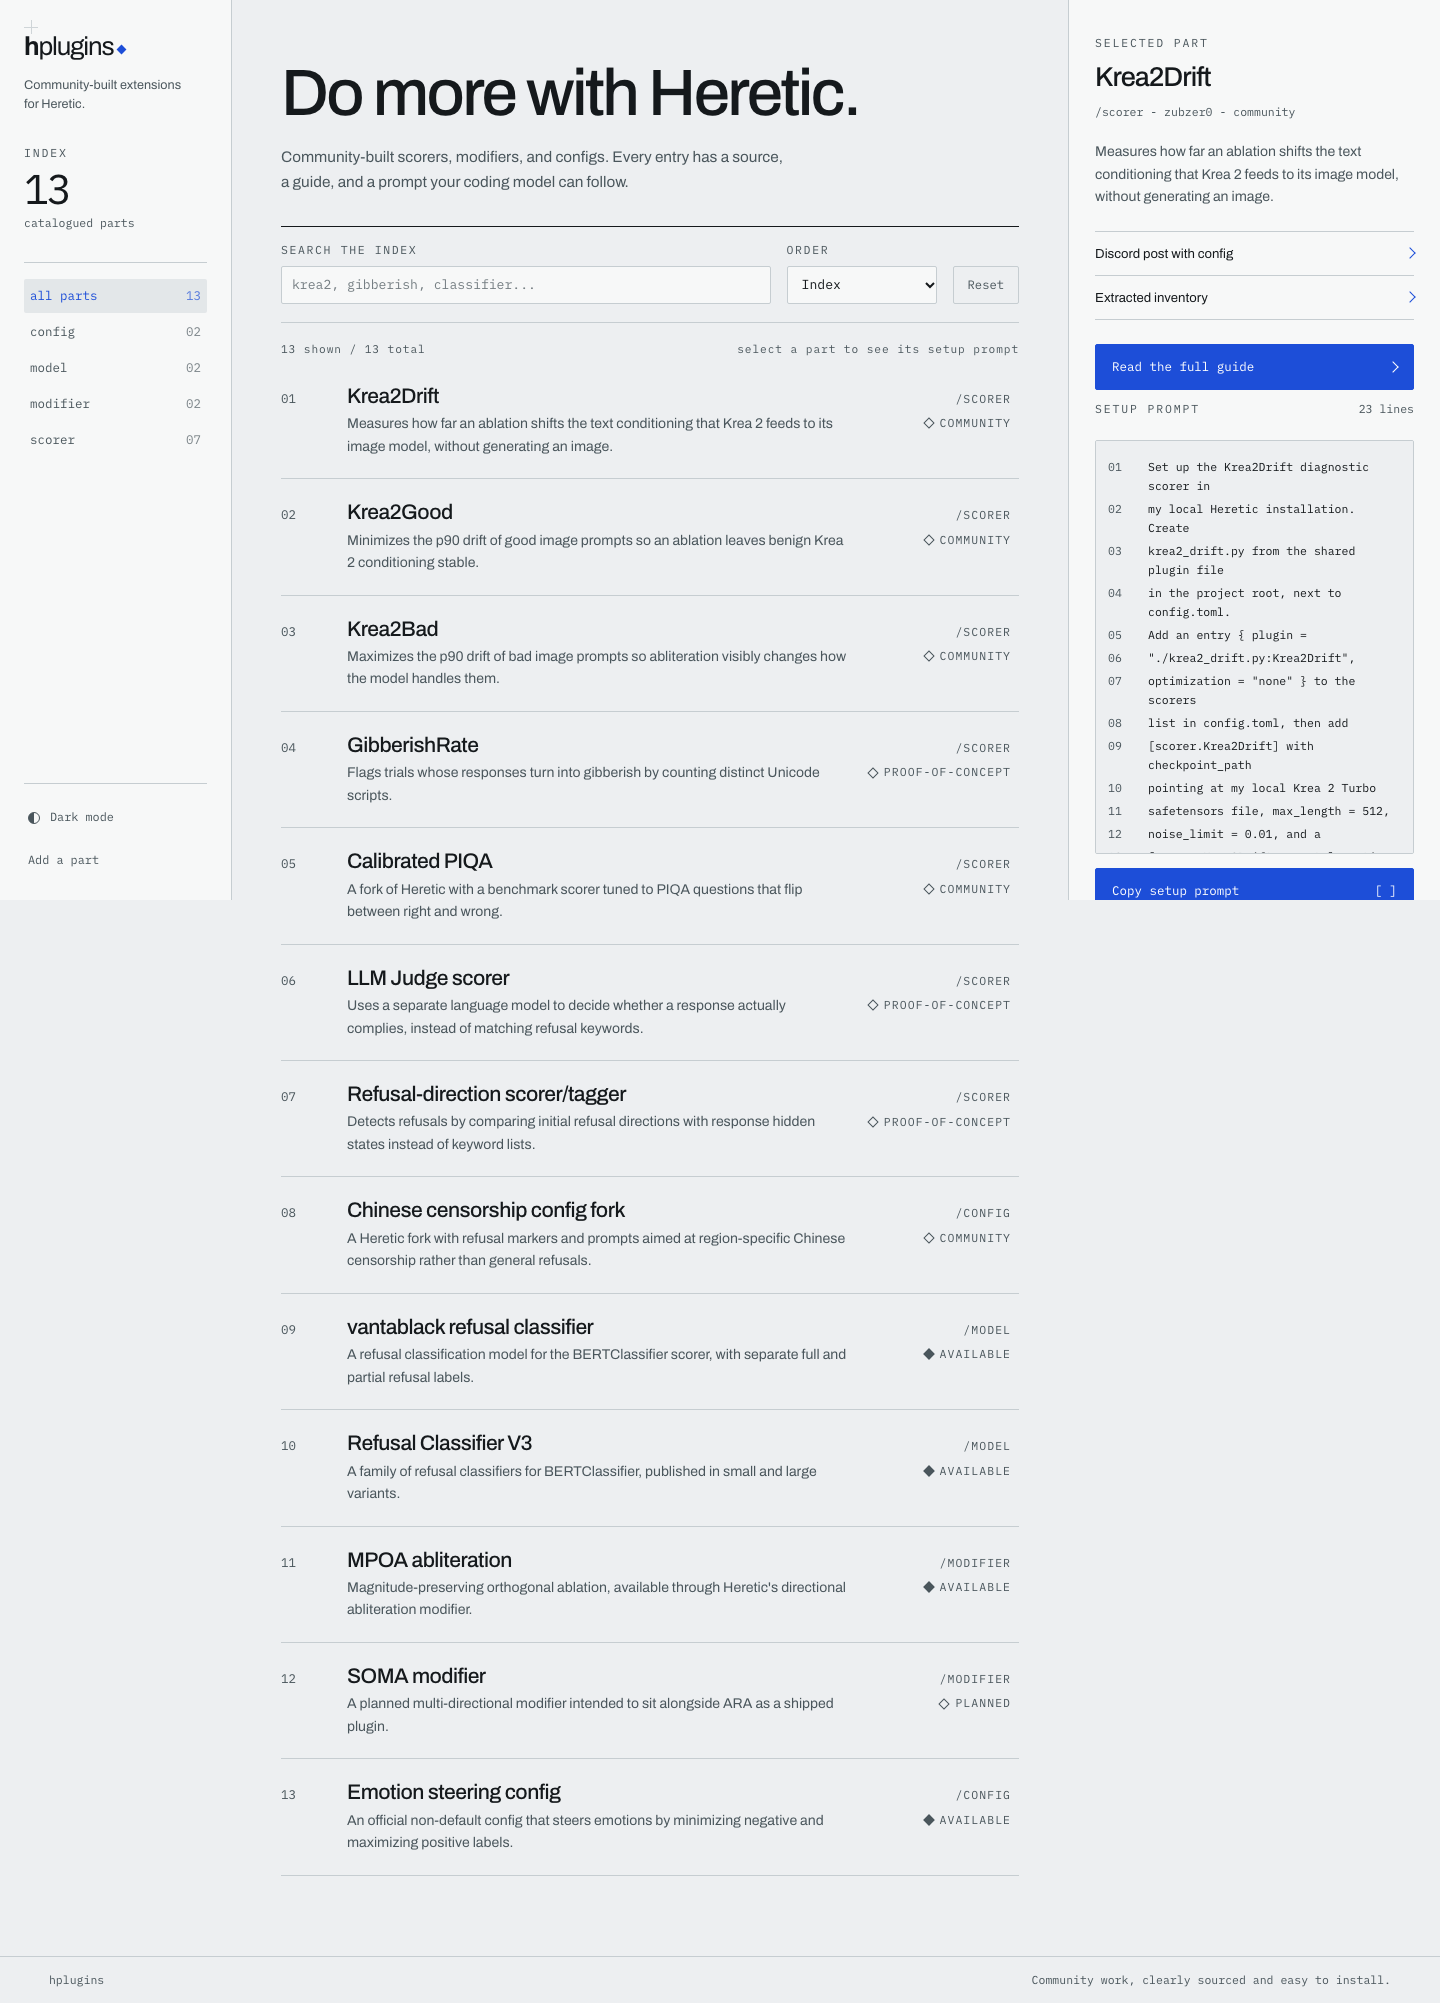
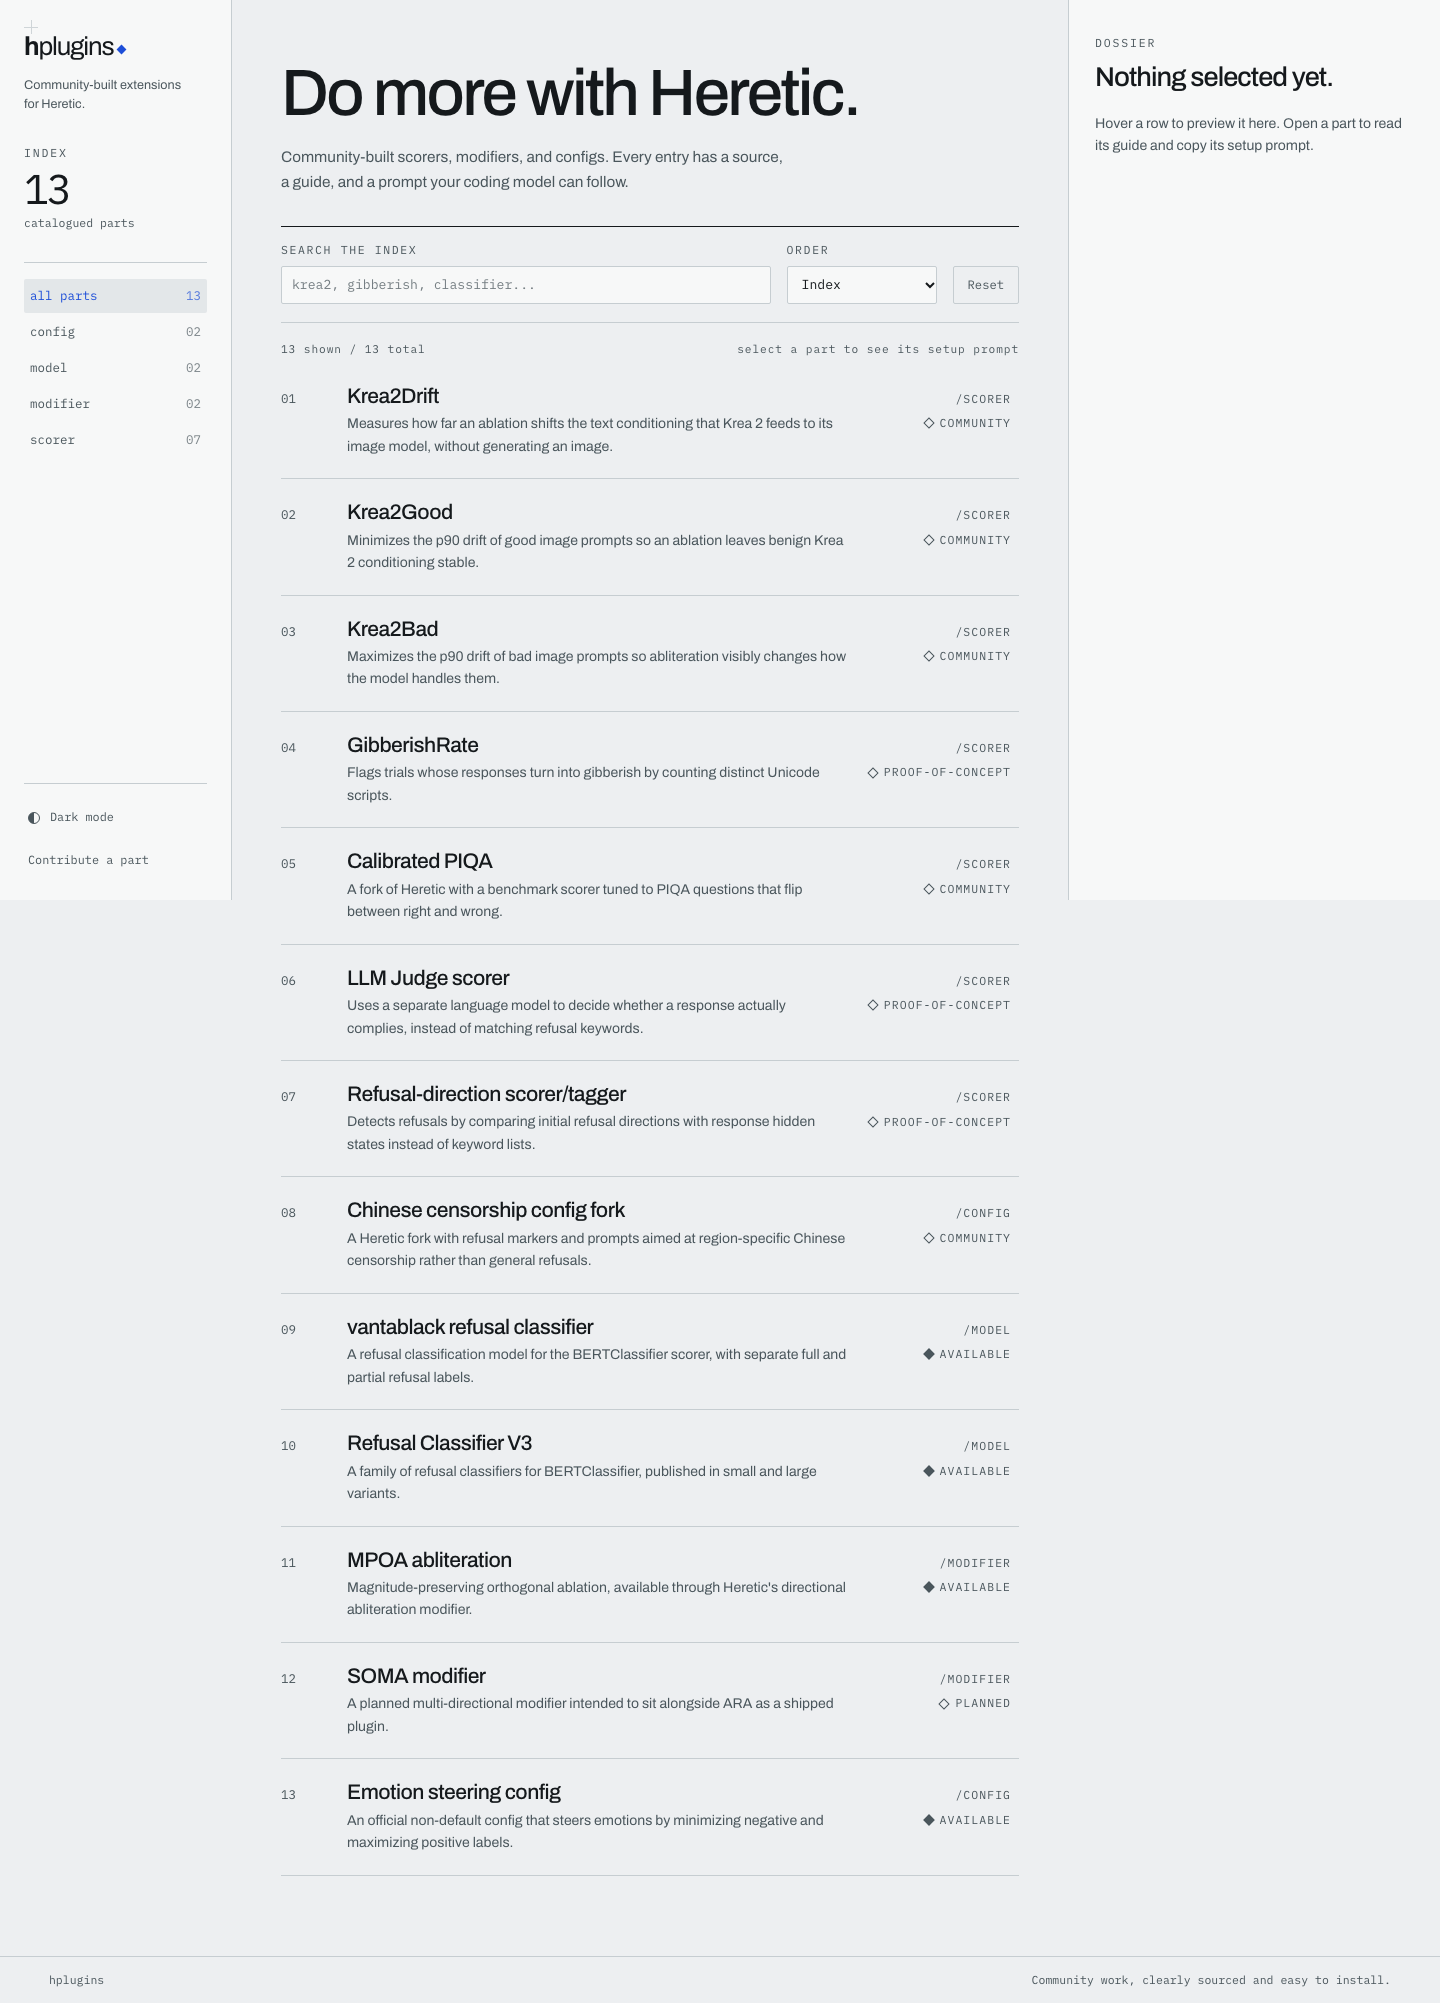
Remove default dossier selection on catalog load

Changed region(s): [[0.75, 0.031, 1.0, 0.3405], [0.75, 0.3714, 1.0, 0.4643]]

diff --git a/assets/js/app.js b/assets/js/app.js
@@ -119,10 +119,18 @@
         '<span class="entry-meta"><span>/' + esc(item.type) + '</span>' + stamp(item.status) + "</span></a></li>";
     }).join("");
 
-    if (!items.some(function (item) { return item.slug === state.previewSlug; })) {
-      state.previewSlug = items[0].slug;
+    if (state.previewSlug && !items.some(function (item) { return item.slug === state.previewSlug; })) {
+      state.previewSlug = null;
     }
-    previewDossier(state.previewSlug);
+    if (state.previewSlug) previewDossier(state.previewSlug);
+    else renderEmptyDossier();
+  }
+
+  function renderEmptyDossier() {
+    dossierView.innerHTML =
+      '<p class="dossier-kicker">Dossier</p>' +
+      '<h2 class="dossier-name">Nothing selected yet.</h2>' +
+      '<p class="dossier-summary">Hover a row to preview it here. Open a part to read its guide and copy its setup prompt.</p>';
   }
 
   function previewDossier(slug) {
@@ -196,6 +204,7 @@
       if (row) previewDossier(row.dataset.slug);
     });
 
+    state.previewSlug = null;
     updateList();
   }
 
